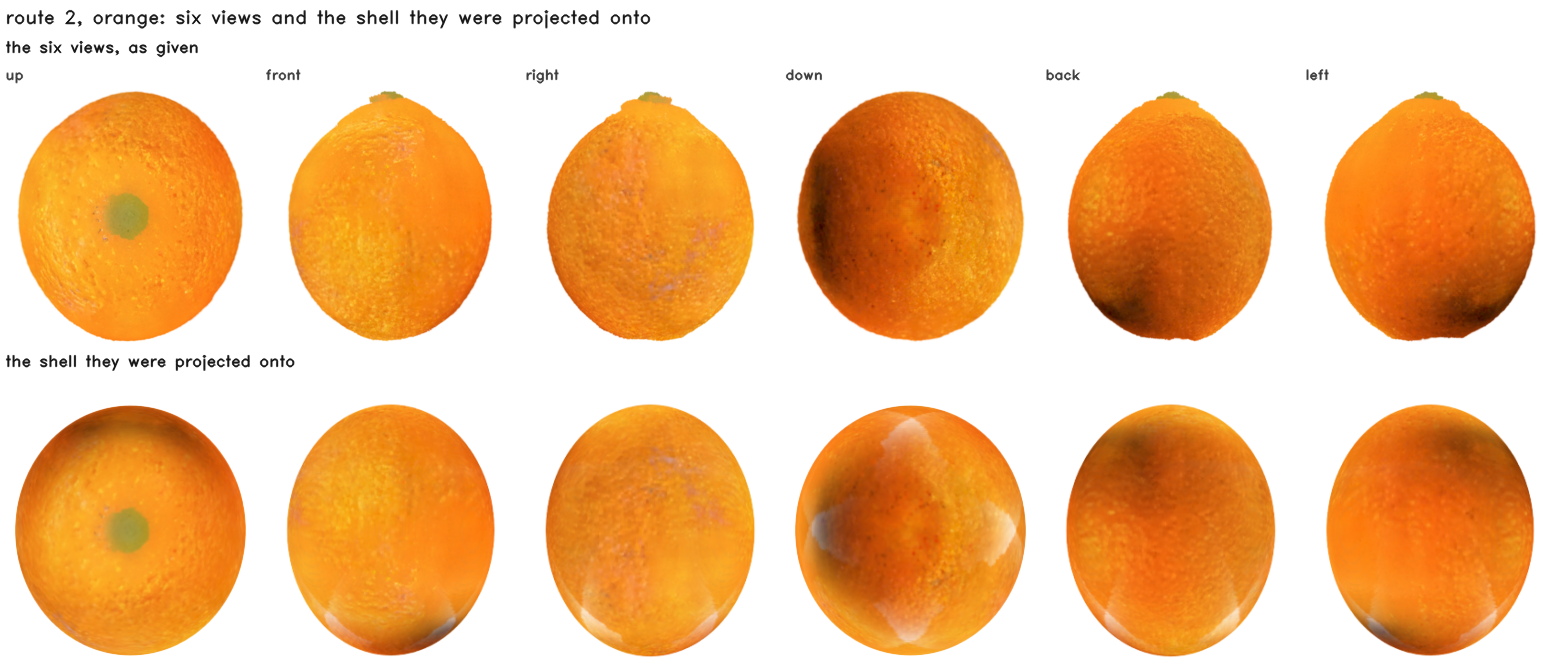
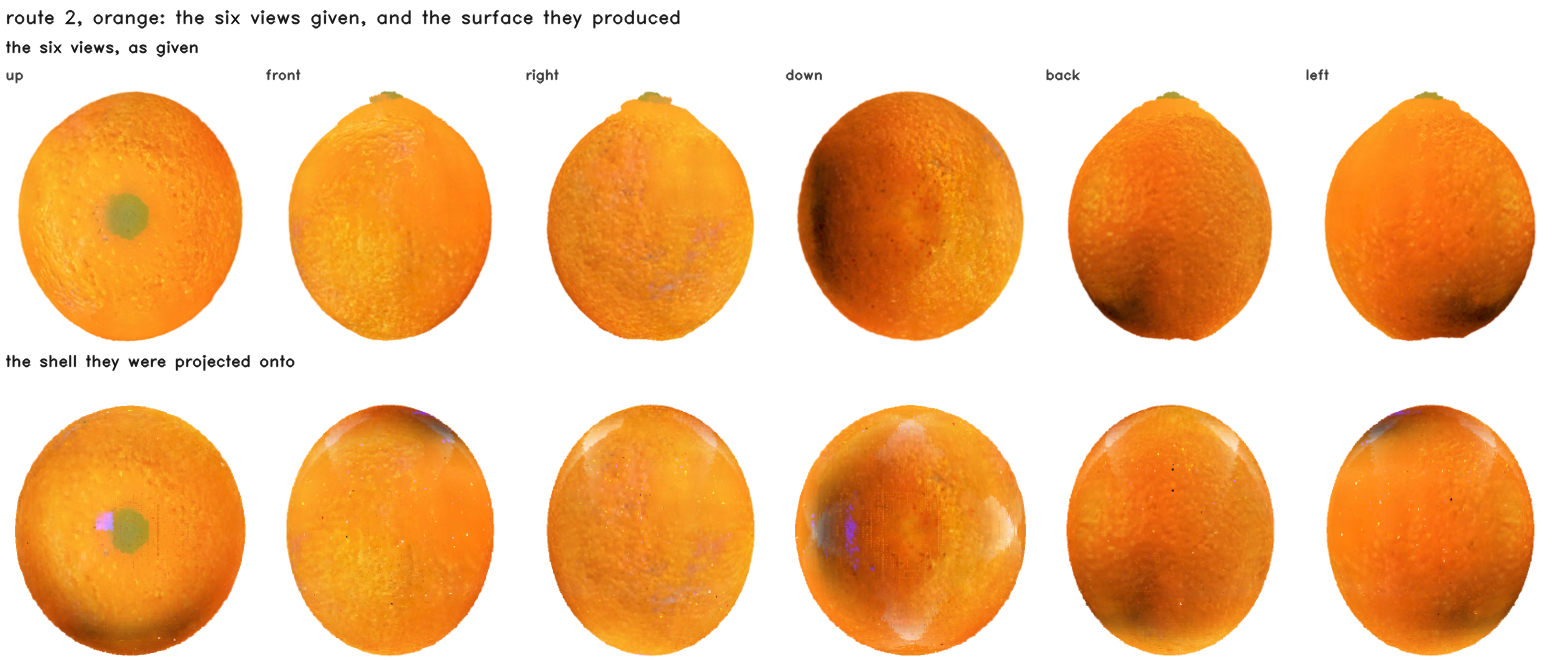
Page: a second reader's findings, and a render defect it exposed
The reviewer caught four things I had broken while fixing others: a sentence fragment left by an
edit, a paragraph that now repeated the equation three sentences above it, 'neither' used of three
items, and every in-text citation number pointing at the wrong entry after the reference list grew
from four to thirty-six. Related Work also had no paragraph on structured Gaussians or on
evaluation, so thirty of the thirty-six references were never cited; both now exist and the
lineages are cited where they belong.

The intro said four of six deferred items were done where the results section says four plus a
fifth. Five.

And the doughnut's skin sheet: the reviewer saw the icing at the bottom with the drips pointing
up. It is. Confirmed against the lattice, where no camera is involved -- icing cells at +0.075
along the configured upward axis, crust at -0.034 -- so the data is right and both render paths
invert the vertical axis on the four side views, while also differing from each other by a flip.
The up and down views hid it because a ring is symmetric under the flip. Recorded on the figure
rather than quietly re-rendered, because I do not yet know which of the two paths is wrong. It
touches no number here: the held-out renders were checked against the baseline's own renderer and
agree unmirrored, 3.93 against 8.13.

diff --git a/index.html b/index.html
@@ -199,29 +199,50 @@ by its own quadric leaves 48.7% of the nodes at a third of a cell of error, with
 recovered exactly at the identity setting, and 95.2% of it still standing at zero tolerance.</p>
 
 <p>The design this implements deliberately defers six things and admits five limitations.
-Four of the six are done here and measured, and three of the five close; what remains is stated in
+Five of the six are done here and measured, and three of the five close; what remains is stated in
 the conclusion rather than left for a reader to notice.</p>
 
 <h2 id="related">Related Work</h2>
 
-<p><strong>Interior generation.</strong> FruitNinja [1] supervises an object's interior with
+<p><strong>Interior generation.</strong> FruitNinja [3] supervises an object's interior with
 depth-conditioned diffusion on cross-sections and stores it as opaque atomic Gaussians. We keep
 that supervision unchanged — the contribution here is not a new way to invent an interior — and
-change what holds it.</p>
+change what holds it. The lattice it is quantised onto, and the baseline every number here is
+measured against, is the previous project in this series [4]; the two before it are Gaussian
+splatting [1] and the radiance fields it descends from [2]. Solid texture synthesis [29] asked the
+same question before diffusion existed, and InFusion [30] and InnerGS [31] answer it for scenes
+rather than for objects that are cut.</p>
 
-<p><strong>Surface representations for generated 3D.</strong> TRELLIS.2's O-Voxel [2] is a
+<p><strong>Surface representations for generated 3D.</strong> TRELLIS.2's O&#8209;Voxel [11] is a
 field-free sparse voxel surface: a Flexible Dual Grid in which every active voxel carries a dual
 vertex and grid-edge intersection flags, handling open, non-manifold and fully enclosed internal
 surfaces. We use its official encoder without reimplementing it, for the cut face and then for the
 whole exterior.</p>
 
-<p><strong>Dual contouring.</strong> The dual vertex is a quadric's minimiser [3], and quadrics
+<p><strong>Dual contouring.</strong> The dual vertex is a quadric's minimiser [6], and quadrics
 are additive over their planes. That is what lets an adaptive grid be built by collapsing, and the
-collapse's error be read off the same quadric that placed the vertex.</p>
+collapse's error be read off the same quadric that placed the vertex. Marching cubes [5] is the
+alternative that places vertices on edges instead, and cannot represent a feature inside a cell;
+quadric error metrics [9] are where the additivity comes from, and dual marching cubes [7] and
+feature-sensitive extraction [8] are the two nearest relatives of what is used here.</p>
 
-<p><strong>Physics on primitives.</strong> PhysGaussian [4] simulates Gaussians with MPM. We keep
+<p><strong>Physics on primitives.</strong> PhysGaussian [19] simulates Gaussians with MPM. We keep
 the existing particle set and give it piece identity, so subdividing a cut band multiplies leaves
-and not particles.</p>
+and not particles. The solver is MPM [20, 21] in the moving-least-squares form [22], and the
+surface follows it by the same weighted-sum binding that skinning [24] and embedded deformation
+[25] use, which is why an affine motion is followed exactly.</p>
+
+<p><strong>Structured Gaussians.</strong> Attaching primitives to a structure rather than
+letting them float is the line this work sits in: anchors on a sparse voxel grid [13], a dense
+structured cube [14], an octree with level of detail [15], and before them the octree and voxel
+grids that accelerated radiance fields [16, 17] and the hash encoding that replaced them [18]. What
+those share is that the structure serves the renderer. Here it serves the volume, and the renderer
+is given its own representation.</p>
+
+<p><strong>Evaluation.</strong> FID [32] and KID [33] against photographs, and CLIPScore [34] for
+whether the picture reads as the thing. Both distribution metrics are used at sample sizes far
+below where they are reliable [35, 36], which the results section states rather than works
+around.</p>
 
 <h2 id="method">Method</h2>
 
@@ -354,7 +375,7 @@ it means the same object.</p>
 <p>Everything below is one path, and every object takes it. What differs between two objects is a
 parameter file, never a branch in the code. To be exact about which part is a script: steps 1 to 3
 are <code>method/run.sh</code>, driven entirely by <code>objects/&lt;name&gt;.conf</code>, and
-steps 4 to 7 are run against the lattice it produces by the tools each box names. an object arrives, a two-level lattice is built from
+steps 4 to 7 are run against the lattice it produces by the tools each box names. An object arrives, a two-level lattice is built from
 it, the interior is trained against cross-sections, the boundary is converted, and from then on
 cutting, drawing and simulating are the same three operations on the same two structures. The
 steps are numbered here so that the sections that follow can be read as the justification for one
@@ -598,7 +619,19 @@ on the top and icing smeared down the sides.</p>
        style="margin-top:14px">
   <img src="assets/route2_watermelon.png" alt="The watermelon's six references and the skinned result"
        style="margin-top:14px">
-  <figcaption>For each object, the six references above and the skinned generated topology below,
+  <figcaption><strong>The lower row's side views are rendered upside down; the data is not.</strong>
+  This was found by a reviewer and confirmed against the lattice, which is the one place no camera
+  is involved: the doughnut's icing cells sit at +0.075 along the configured upward axis and its
+  crust cells at &minus;0.034, so the icing is on top where it belongs. Both of this project's
+  render paths &mdash; the Gaussian rasteriser and the point splat &mdash; invert the vertical axis
+  for the four side views, and they also differ from each other by a flip, so at least one further
+  error is in there. The <code>up</code> and <code>down</code> views are unaffected in appearance
+  because a ring is symmetric under the flip, which is why this survived several readings. It does
+  not touch any number on this page: the held-out cut renders were checked against the baseline's
+  own renderer and agree with it, mirrored and unmirrored, at 3.93 against 8.13 mean absolute
+  difference.
+  <br><br>
+  For each object, the six references above and the skinned generated topology below,
   in the same six views and cropped to their own silhouettes at one scale &mdash; so the rows can
   be compared where it matters, which is texture against texture and whether each view landed on
   the face it names. The doughnut's icing is on top in both rows and its crumb underneath; the
@@ -659,9 +692,8 @@ lying exactly on the plane, worst deviation 0.00e+00 over a whole object. Every 
 refined to the same depth, so cut polygons meet edge to edge and there are no T-junctions between
 them.</p>
 
-<p>The visible face of a crossed cell is what the plane cuts out of that cell, which for an
-axis-aligned cube is a convex polygon with at most six sides. It is obtained exactly, by
-intersecting the plane with the twelve edges and ordering the hits about the plane's normal,</p>
+<p>Written as one statement: the visible face of a crossed cell is the plane's intersection
+with that cell, and every vertex of it is an edge crossing solved in closed form,</p>
 
 <div class="eq"><div class="body">
 $$ \Pi_{\mathbf{k}} = \bigl\{\, \mathbf{x} \in C_{\mathbf{k}} :
@@ -847,7 +879,7 @@ residual rather than hiding it.</p>
 
 <figure>
   <video src="assets/binding.mp4" autoplay loop muted playsinline controls preload="metadata"></video>
-  <figcaption>One piece under a non-affine deformation, its surface bound to the particles, and a
+  <figcaption>One piece under a non-affine deformation, its surface bound to the particles, and
   the same particles driving it two ways: a per-piece rigid fit on the left, which is the honest
   best a single transform can do, and the particle binding on the right, both coloured by how far
   each vertex has left its material on one shared scale. The rigid panel goes red and stays
@@ -1062,7 +1094,7 @@ cells, but the whole object does.</p>
 </figure>
 
 <div class="note"><strong>What a wrong number looked like, three times.</strong> Three entries in
-these tables were wrong before they were right, and neither was caught by its magnitude. The orange read
+these tables were wrong before they were right, and none of them was caught by its magnitude. The orange read
 493 in the last transverse column while the same model read 66.5 in the second &mdash; easy to
 write up as the cost of leaving the Gaussians behind, and in fact a bug, exposed by an
 inconsistency rather than a size: the watermelon's two routes agreed with each other and the
